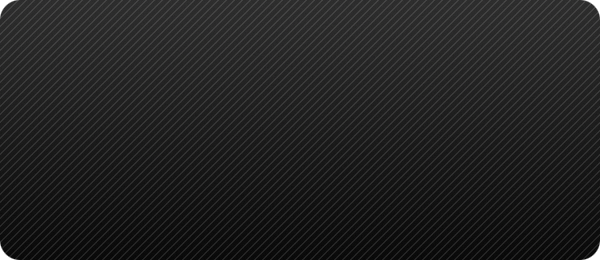
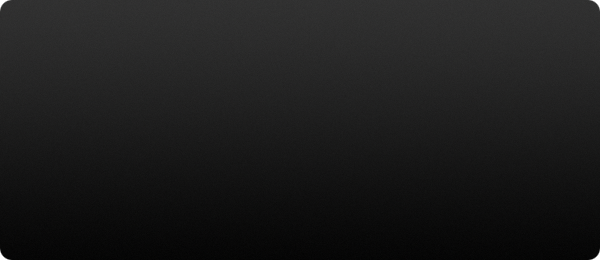
Visual Cleanup
removed a bunch of images I'd been experimenting with, went with jsut
gray/blue

diff --git a/muniverse2/NearbyMapViewController.m b/muniverse2/NearbyMapViewController.m
@@ -43,9 +43,9 @@
     [super viewDidLoad];
     
     [self.detailView setFrame:CGRectMake(0, self.map.frame.size.height + 44, self.detailView.frame.size.width, self.map.frame.size.height - 184)];
-    [[self.detailView viewWithTag:10] setBackgroundColor:[UIColor colorWithPatternImage:[UIImage imageNamed:@"PanelHeaderBackground.png"]]];
+    [[self.detailView viewWithTag:10] setBackgroundColor:[UIColor colorWithPatternImage:[UIImage imageNamed:@"Nearby_Detail_Bg.png"]]];
     
-    UIImage *bgimage = [UIImage imageWithContentsOfFile:[[NSBundle mainBundle] pathForResource:@"LeatherBackground" ofType:@"png"]];
+    UIImage *bgimage = [UIImage imageWithContentsOfFile:[[NSBundle mainBundle] pathForResource:@"Textured_App_Bg" ofType:@"png"]];
     [self.detailTable setBackgroundView:[[UIImageView alloc] initWithImage:bgimage]];
     
     NSFetchRequest *fetch = [NSFetchRequest fetchRequestWithEntityName:@"Stop"];

diff --git a/muniverse2/StopDetailViewController.m b/muniverse2/StopDetailViewController.m
@@ -37,7 +37,7 @@
     [[NSNotificationCenter defaultCenter] addObserver:self selector:@selector(refreshPredictions) name:@"becameActive" object:nil];
 
 
-    UIImage *bgimage = [UIImage imageWithContentsOfFile:[[NSBundle mainBundle] pathForResource:@"LeatherBackground" ofType:@"png"]];
+    UIImage *bgimage = [UIImage imageWithContentsOfFile:[[NSBundle mainBundle] pathForResource:@"Textured_App_Bg" ofType:@"png"]];
     [self.view setBackgroundColor:[UIColor colorWithPatternImage:bgimage]];
     
     self.stopName.text = self.stop.name;

diff --git a/muniverse2/StationViewController.m b/muniverse2/StationViewController.m
@@ -40,7 +40,7 @@
     self.navigationItem.title = [self.subway valueForKey:@"name"];
 
     // set background image for the table
-    UIImage *bg = [UIImage imageWithContentsOfFile:[[NSBundle mainBundle] pathForResource:@"LeatherBackground" ofType:@"png"]];
+    UIImage *bg = [UIImage imageWithContentsOfFile:[[NSBundle mainBundle] pathForResource:@"Textured_App_Bg" ofType:@"png"]];
     [self.table setBackgroundView:[[UIImageView alloc] initWithImage:bg]];
     
     // finally request the lines from core data

diff --git a/muniverse2/AppDelegate.m b/muniverse2/AppDelegate.m
@@ -22,7 +22,7 @@
 
 - (BOOL)application:(UIApplication *)application didFinishLaunchingWithOptions:(NSDictionary *)launchOptions
 {
-//    [self customizeAppearance];
+ //   [self customizeAppearance];
     
     dispatch_async(dispatch_get_global_queue(0, 0), ^{
         [self checkForData];
